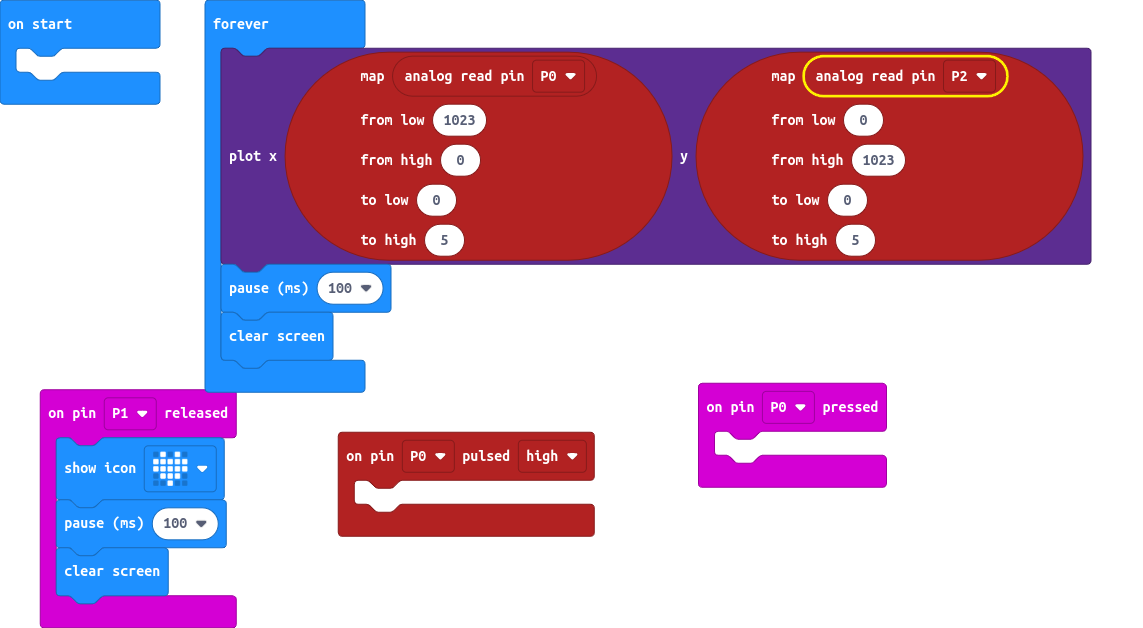
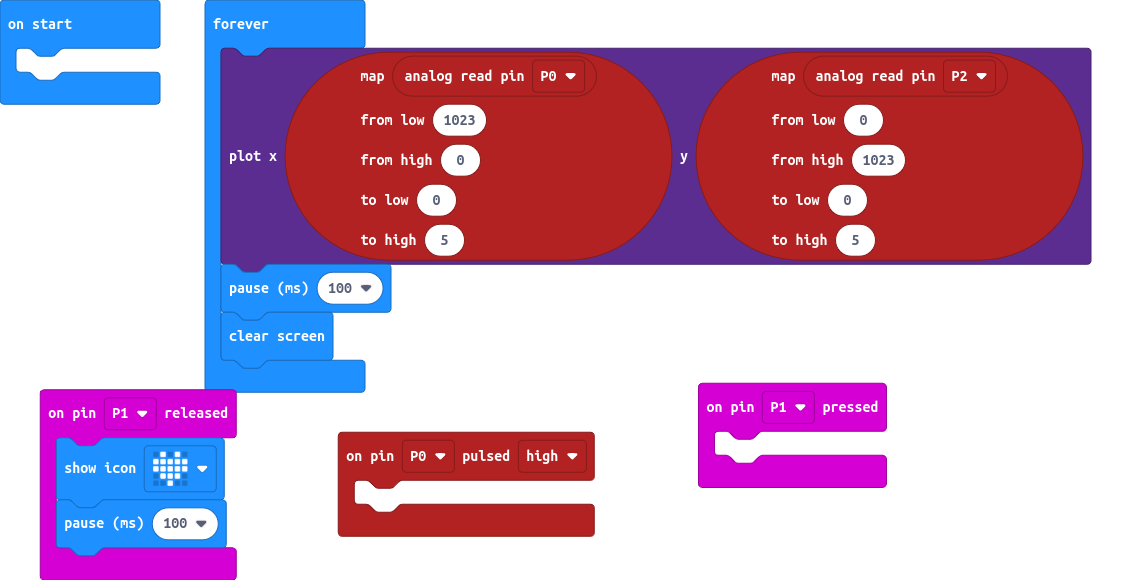
Update main.blocks, main.ts

diff --git a/main.ts b/main.ts
@@ -1,4 +1,4 @@
-input.onPinPressed(TouchPin.P0, function () {
+input.onPinPressed(TouchPin.P1, function () {
 	
 })
 pins.onPulsed(DigitalPin.P0, PulseValue.High, function () {
@@ -7,7 +7,6 @@ pins.onPulsed(DigitalPin.P0, PulseValue.High, function () {
 input.onPinReleased(TouchPin.P1, function () {
     basic.showIcon(IconNames.Heart)
     basic.pause(100)
-    basic.clearScreen()
 })
 basic.forever(function () {
     led.plot(pins.map(
